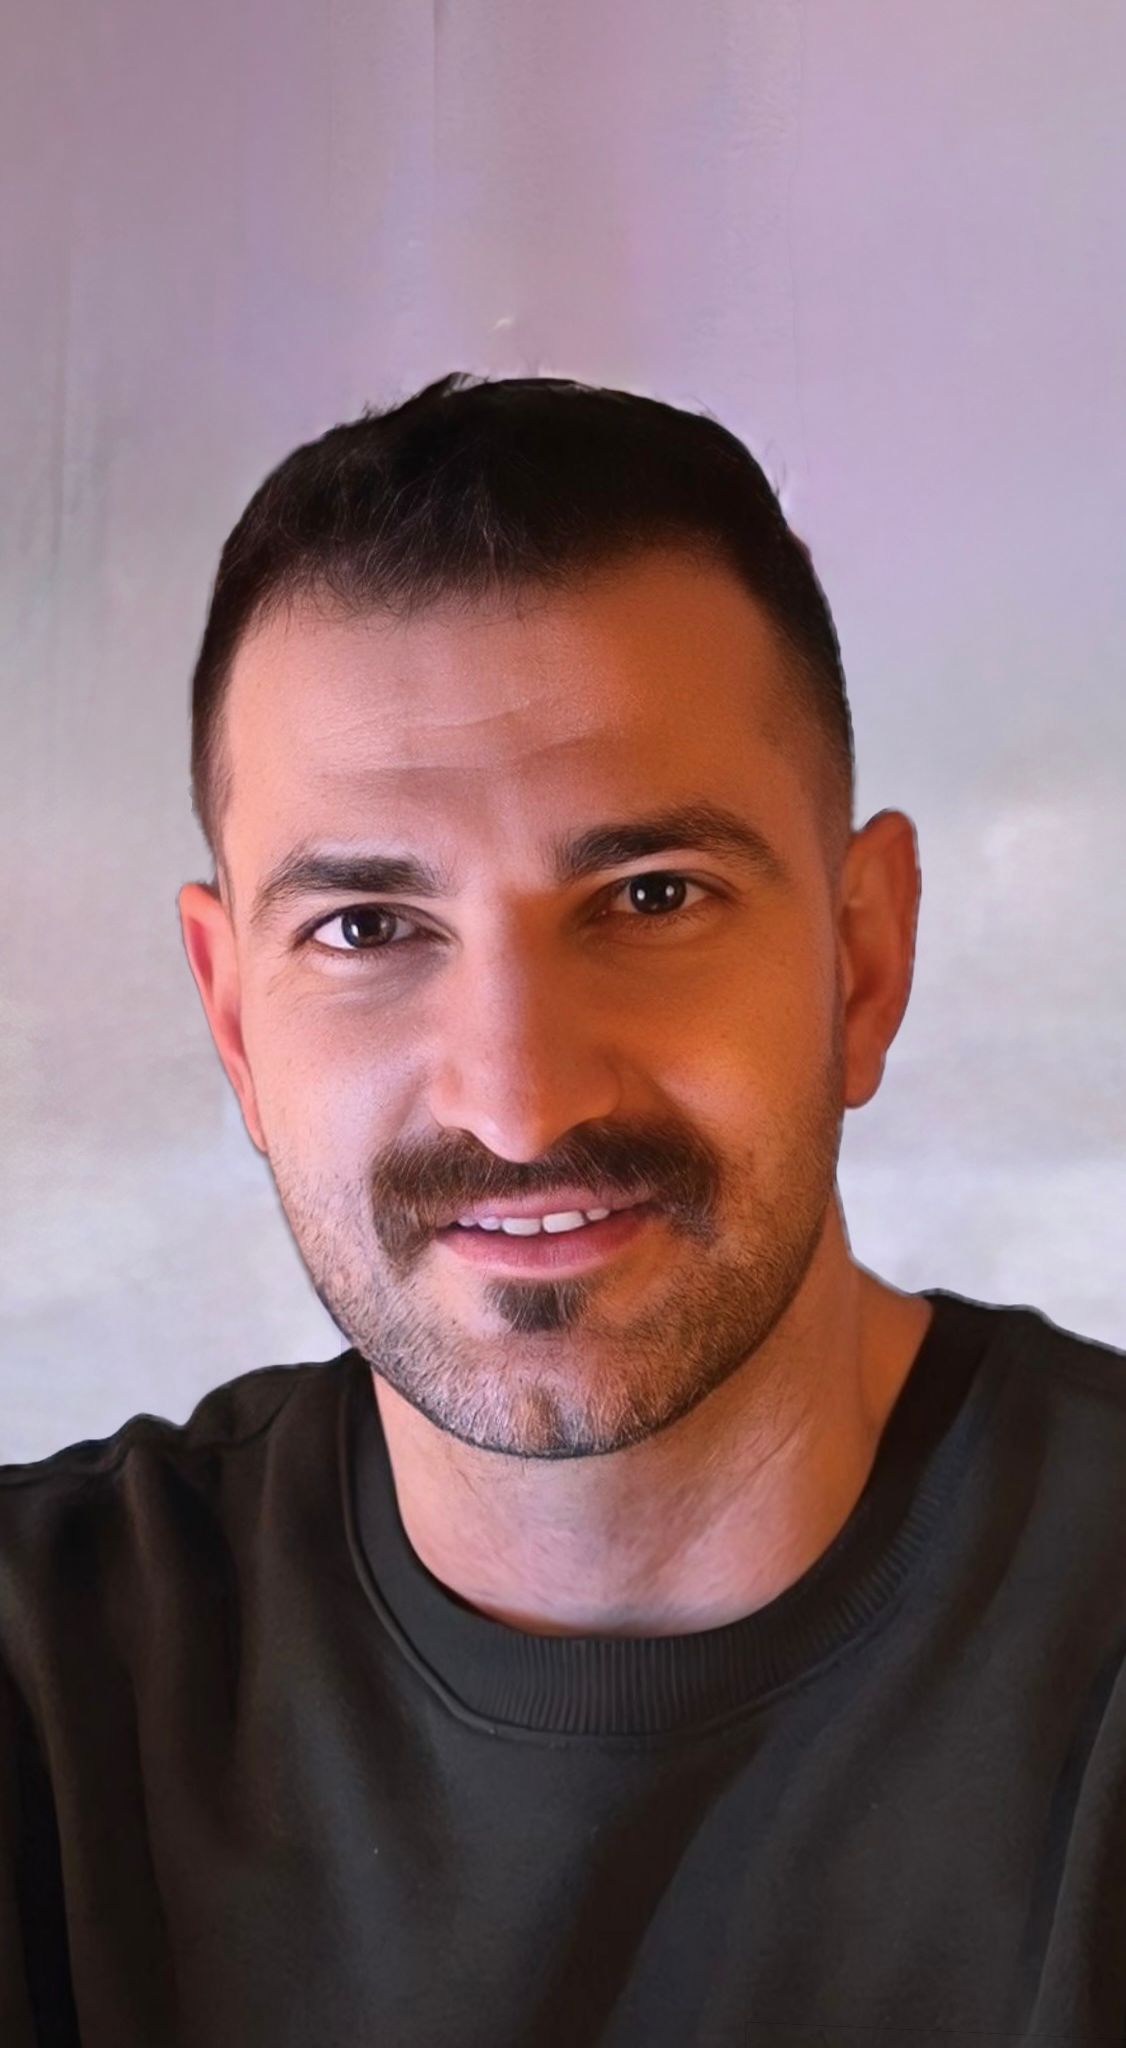
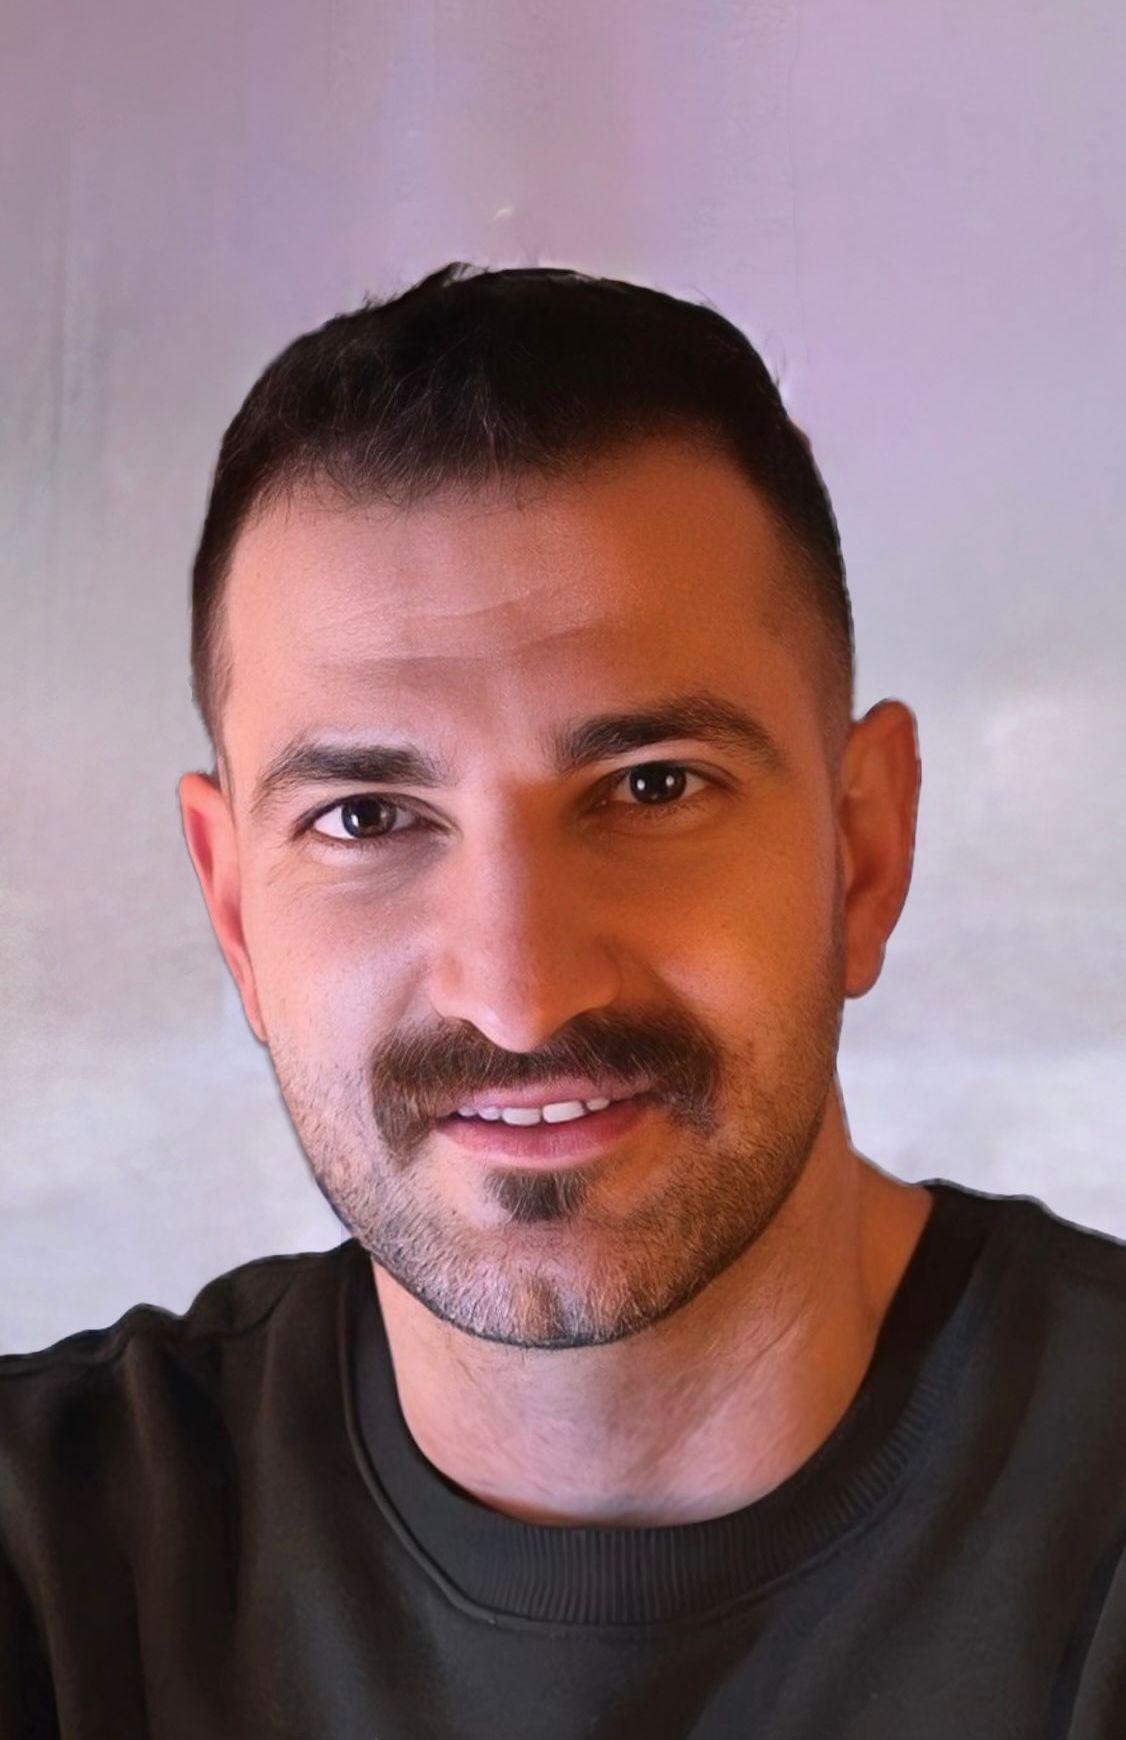
update it

diff --git a/src/components/Image.css b/src/components/Image.css
@@ -2,32 +2,33 @@
     display: flex;
     justify-content: center;
     align-items: center;
-    height: 100vh;
+    height: 50vh;
 }
 
-.image-container img {
-    width: 150px;
-    height: 150px;
-    border-radius: 50%;
+.my-image {
+    width: 250px;
+    height: 300px;
+    border-radius: 20%;
     object-fit: cover;
-    box-shadow: 0 4px 6px rgba(0, 0, 0, 0.1), 0 1px 3px rgba(0, 0, 0, 0.08);
+    box-shadow: 0 6px 10px rgba(0, 0, 0, 0.5), 0 2px 3px rgba(0, 0, 0, 0.08);
     transition: transform 0.3s ease, box-shadow 0.3s ease;
 }
 
-.image-container img:hover {
-    transform: scale(1.05);
-    box-shadow: 0 6px 10px rgba(0, 0, 0, 0.15), 0 2px 4px rgba(0, 0, 0, 0.1);
+.my-image:hover {
+    transform: scale(1.3);
+    box-shadow: 0 6px 10px rgba(0, 0, 0, 0.15), 0 2px 4px rgba(157, 3, 3, 0.288);
+    cursor: pointer;
 }
 
 @media (max-width: 768px) {
-    .image-container img {
+    .my-image {
         width: 120px;
         height: 120px;
     }
 }
 
 @media (max-width: 480px) {
-    .image-container img {
+    .my-image{
         width: 100px;
         height: 100px;
     }

diff --git a/src/components/Image.jsx b/src/components/Image.jsx
@@ -6,8 +6,8 @@ import './Image.css';
 const Image = () => {
     return (
         <div className="image-container">
-        <Fades animationType="fadeZoom">
-            <img className="image" src={IMG} alt="my image" />
+        <Fades animationType="fadeRotate">
+            <img className="my-image" src={IMG} alt="my image" />
         </Fades>
         </div>
     );

diff --git a/src/Animations/Fades.jsx b/src/Animations/Fades.jsx
@@ -19,7 +19,7 @@ export default function Fades({ children, animationType = "fadeScale" }) {
       animate: { opacity: 1, x: 0 },
     },
     fadeRotate: {
-      initial: { opacity: 0, rotate: -10 },
+      initial: { opacity: 0, rotate: -15 },
       animate: { opacity: 1, rotate: 0 },
     },
     fadeOnly: {

diff --git a/src/components/Hero.css b/src/components/Hero.css
@@ -1,6 +1,9 @@
 .hero-section {
   max-width: 800px;
-  margin: 15rem auto;
+  margin-top: 5rem;
+  margin-bottom: 15rem;
+  margin-right: auto;
+  margin-left: auto;
   padding: 3rem 2.5rem;
   border-radius: 20px;
   box-shadow: 1px 1px 10px 10px rgba(146, 201, 18, 0.145);
